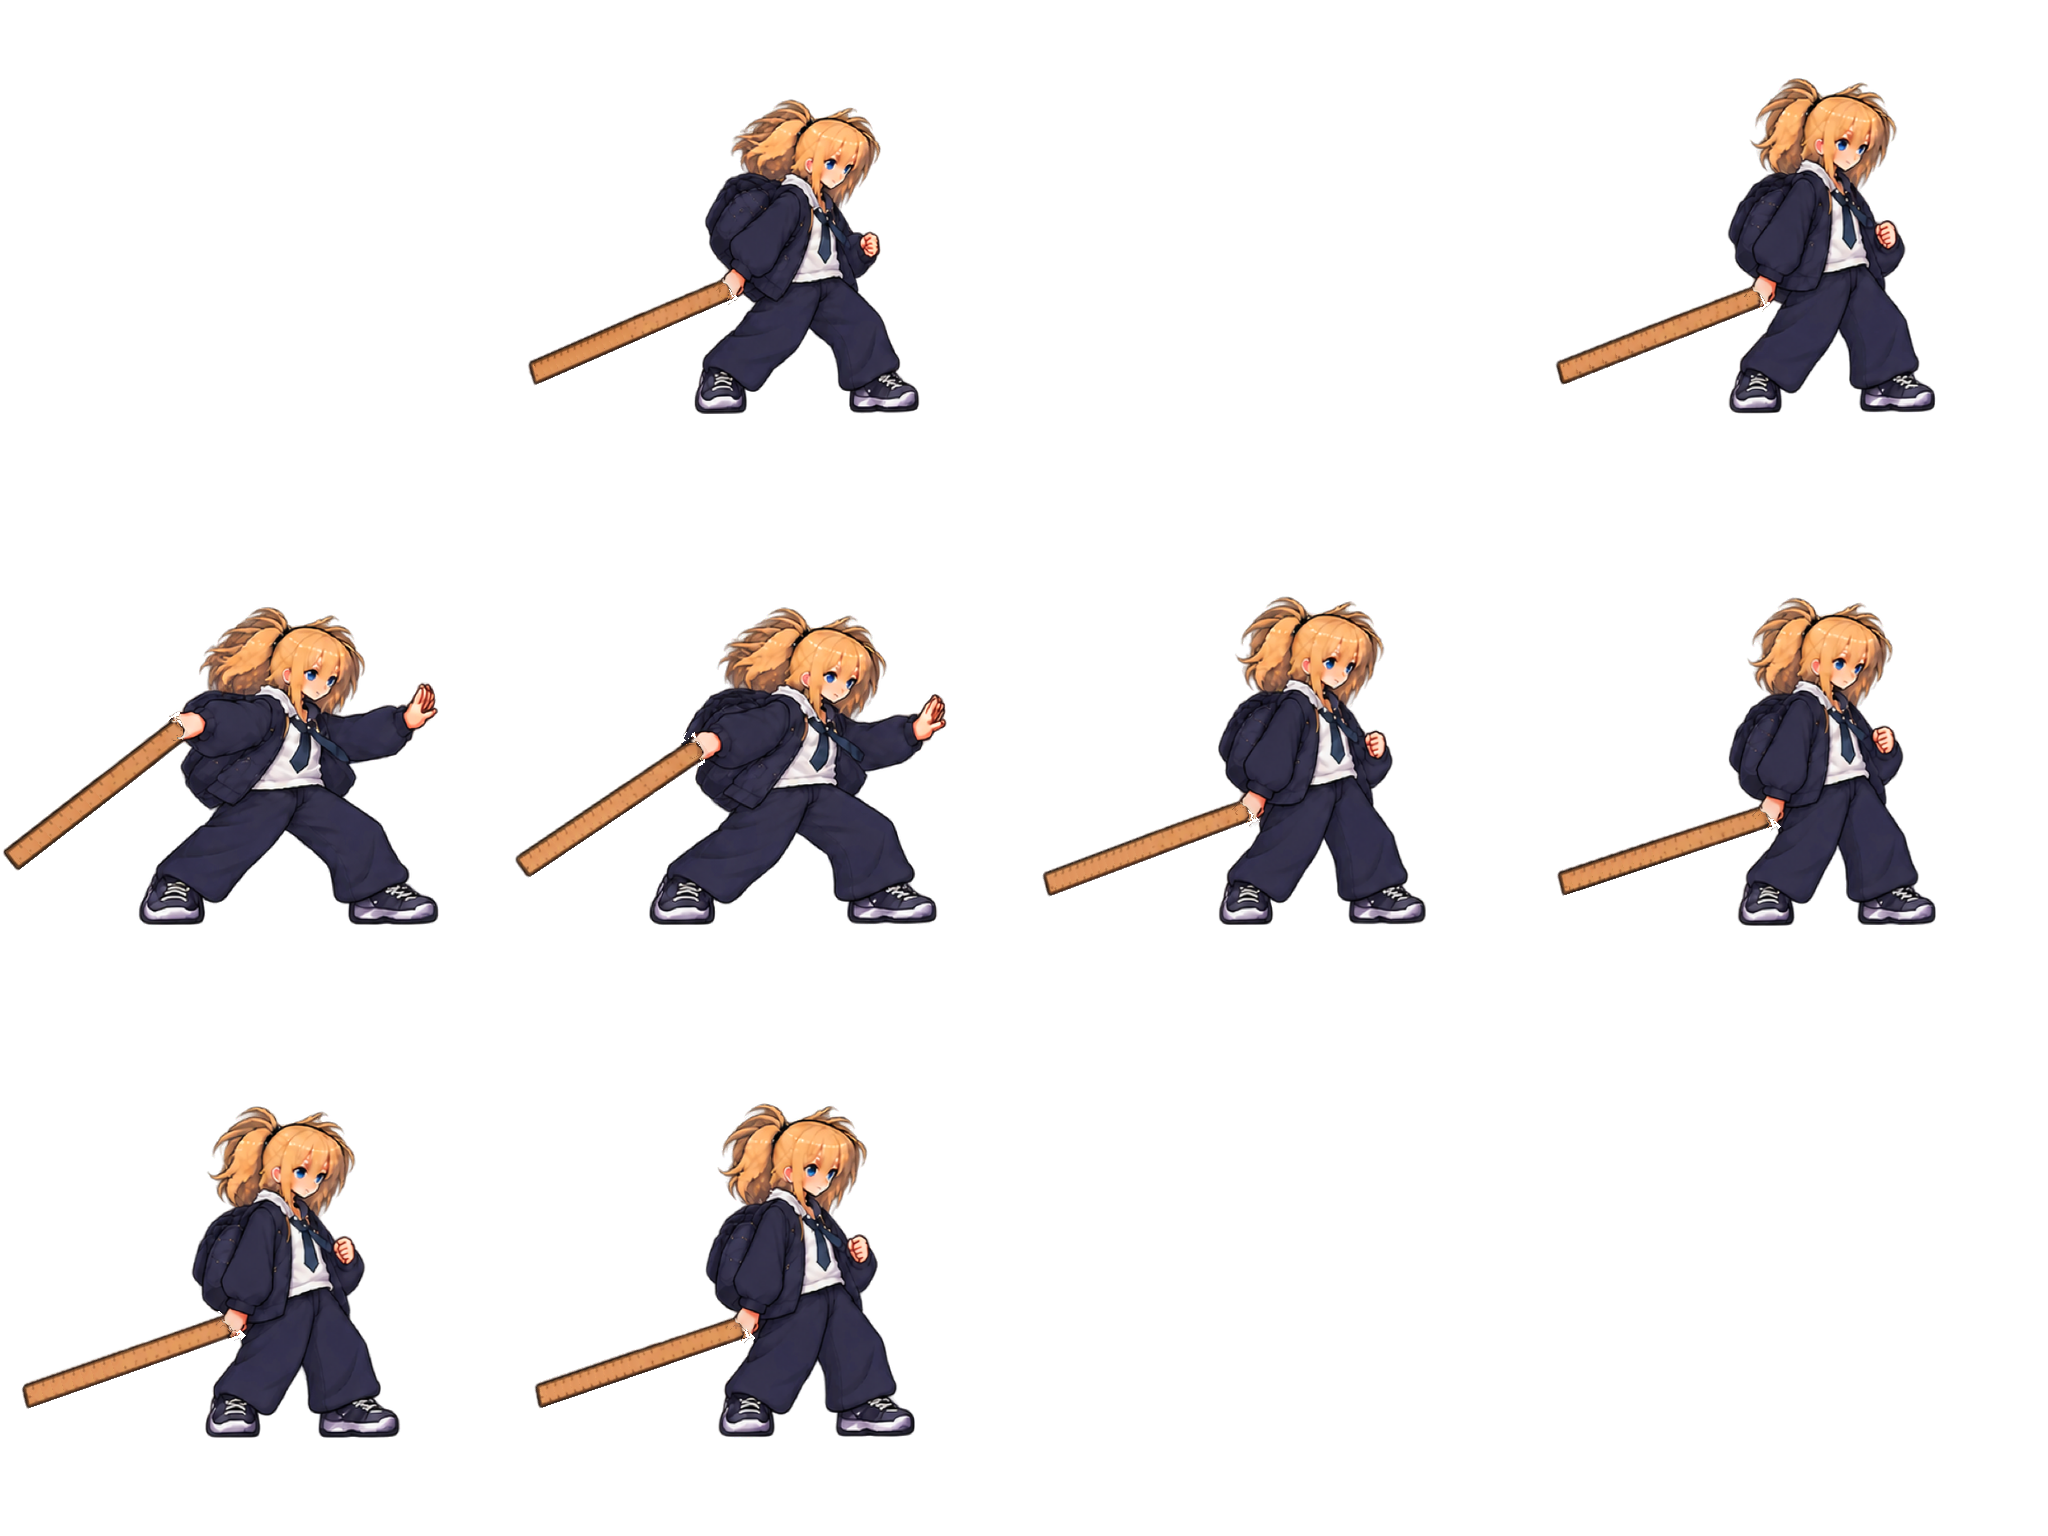
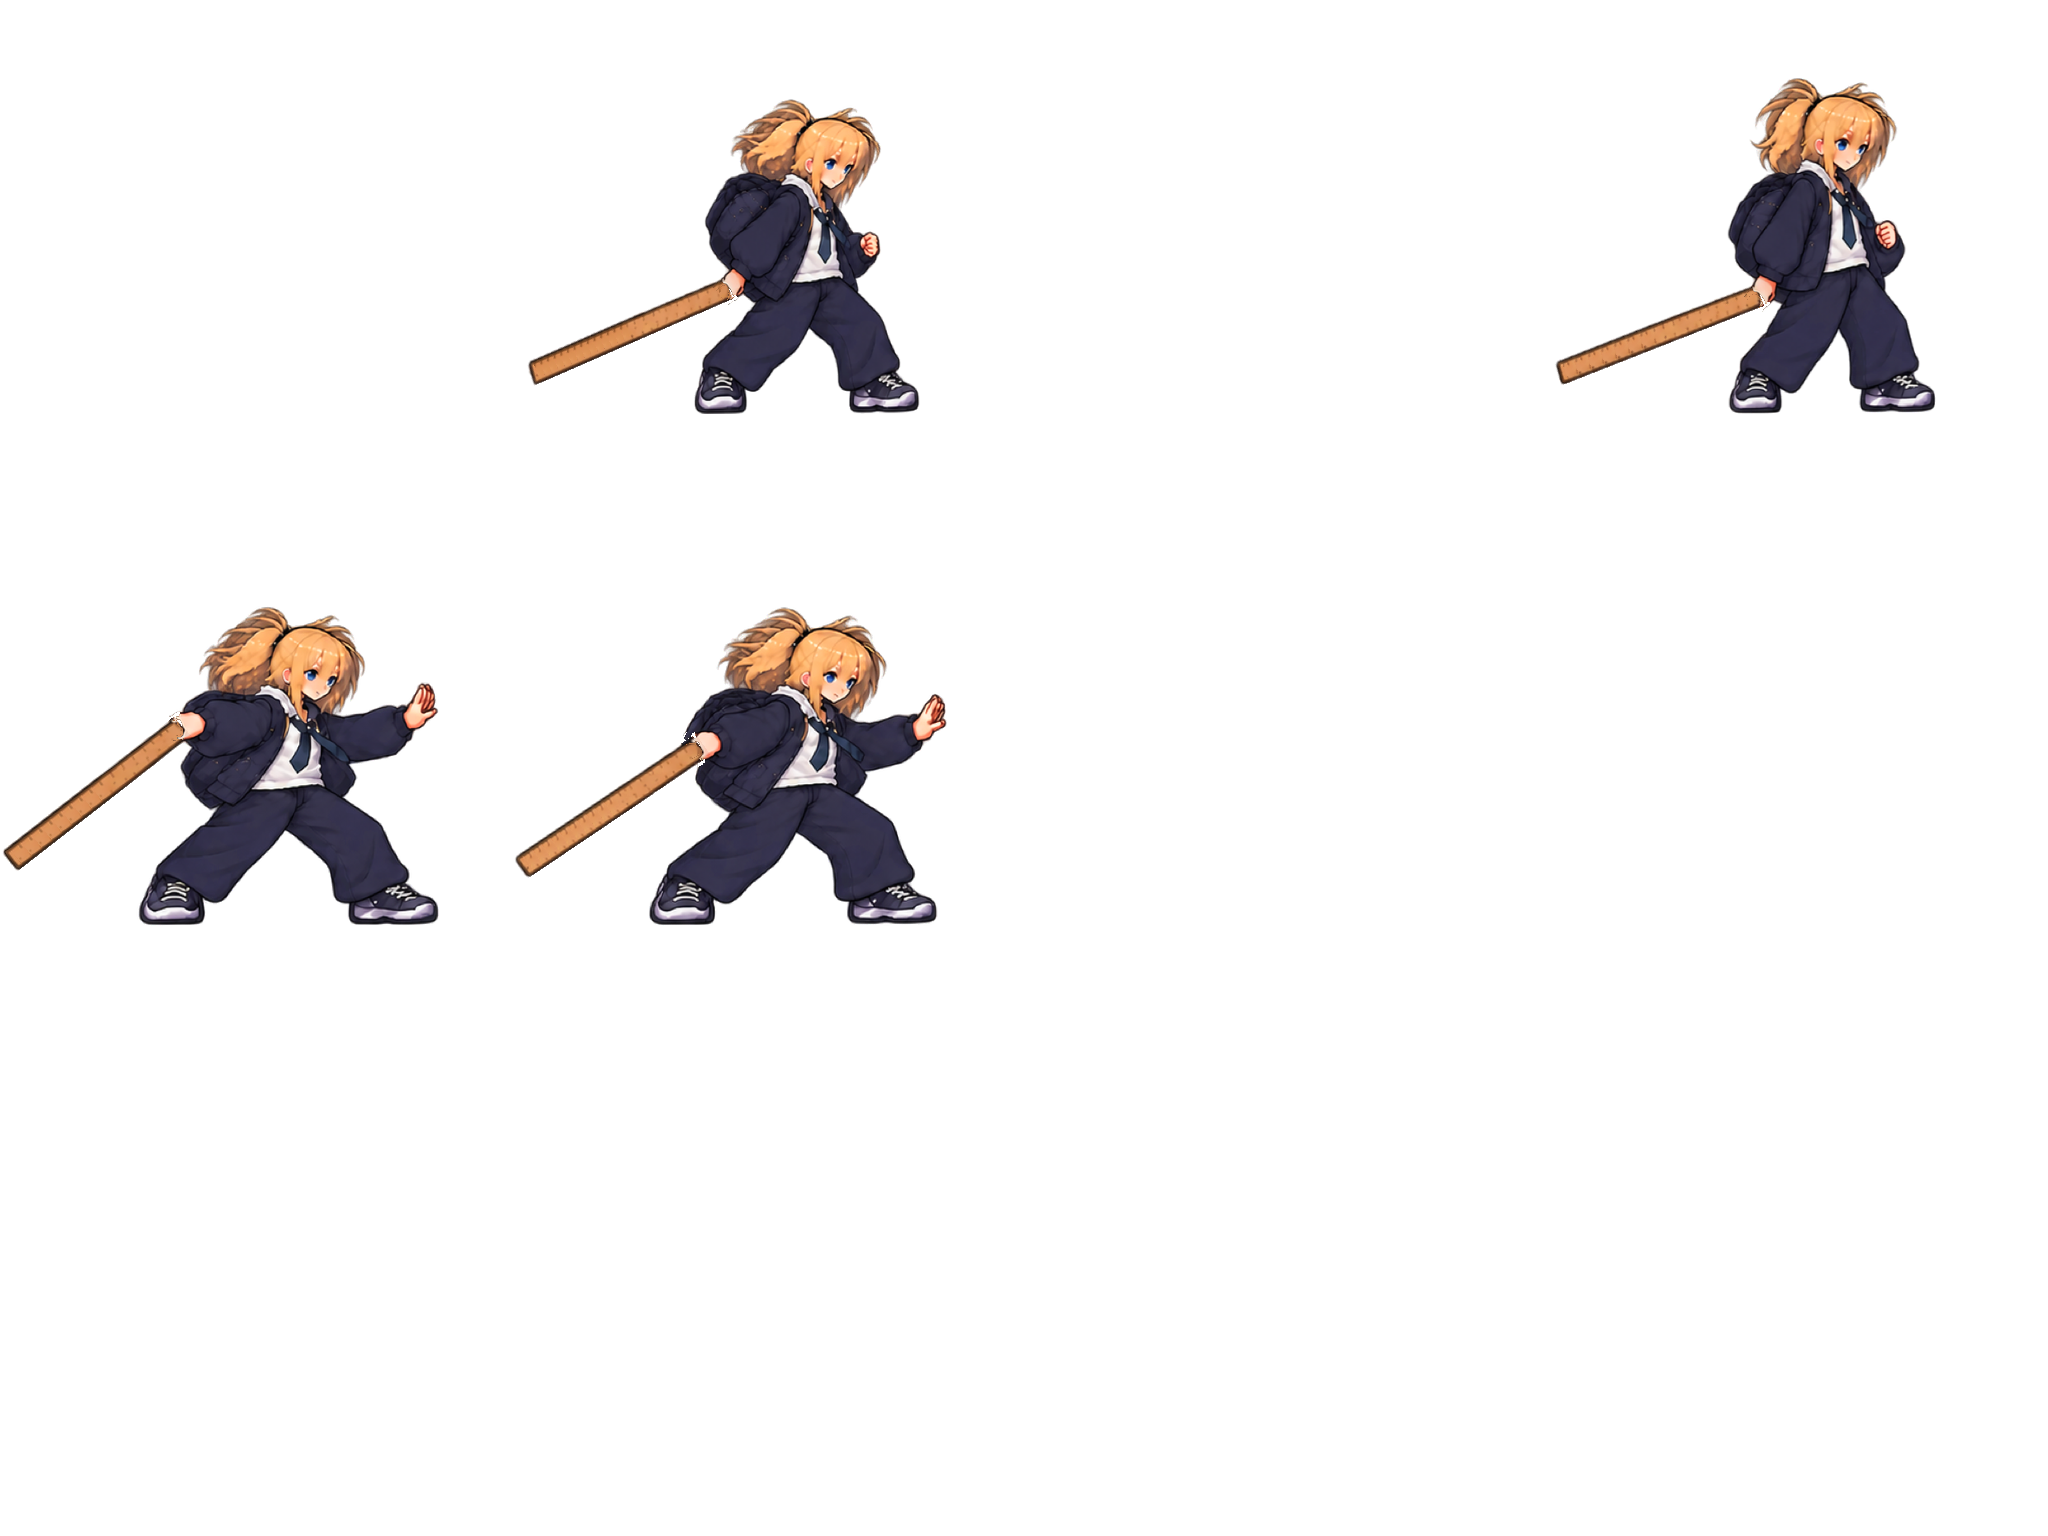
fix: usar el reposo real en la parte final de la frenada de Luz y suavizar el brazo de la frenada
La parte de pie de la frenada (cuadros 6-9) traia el pelo mas ancho y oscuro que el reposo. Ahora la frenada son solo los cuadros 4-5 (el 5 dura el doble) y el resto del estado SKID reproduce la animacion idle.

diff --git a/tools/process_luz_run_turn_skid.py b/tools/process_luz_run_turn_skid.py
@@ -104,19 +104,20 @@ SHEETS = {
         "raw_rows": 3,
         "scale": TURN_SKID_SCALE,
         # Turn: slot 0 (standing, one-hand trailing grip), slot 2 (low pivot, no ball
-        # crouch), slot 3 (standing, trailing grip). Skid: slots 4-9, ending with a
-        # small rock-back (8, 7, 8) so the stop settles with a sway. Slots 10-11 are
-        # unused (Codex filled them anyway).
-        "clips": {"turn": [1, 3], "skid": [4, 5, 6, 7, 8, 7, 8, 9]},
+        # crouch), slot 3 (standing, trailing grip). Skid: only the braking slots 4-5
+        # (5 held twice, so the arm pulls in softly); the hold part is the real idle
+        # because Codex drew the standing slots 6-9 with puffier, darker hair. Slots
+        # 2 and 6-11 are unused.
+        "clips": {"turn": [1, 3], "skid": [4, 5, 5]},
         # Codex paints the hair 4-7% darker than the idle in the sway slots (and 8-10%
         # in the run sheet); lift it to the idle mean so the clips do not pop.
-        "hair_match": [1, 3, 4, 5, 6, 7, 8, 9],
+        "hair_match": [1, 3, 4, 5],
         "body_anchor": True,
         # Codex draws the standing slots with the same head but wider clothes and legs
         # than the idle (lower-body width +17% at the same height), so the stop looked
         # like a size pop into the idle: squeeze their body below the head to the idle
         # width (see squeeze_body). Slots 4-5 are the wide braking stance and stay as drawn.
-        "body_match": [1, 3, 6, 7, 8, 9],
+        "body_match": [1, 3],
     },
 }
 

diff --git a/odd/tasks/luz-final.md b/odd/tasks/luz-final.md
@@ -68,6 +68,7 @@ Budget: Luz complete between this week and next, sharing time and Claude/Codex t
 - [ ] P6 (A) Ground dash like the Penitent (M4: 4-frame startup, ~400 px/s, 0.33 s, low slide, afterimages in Luz colors); keep air dash coherent.
 - [x] P7 (B) Run v3 and long ruler. Done 2026-10-07: route delegated direct (writer trigger: processor + new module + catalog + VFX). Codex could not draw a consistent long ruler, so `tools/luz_ruler_length.py` lengthens it by script (axis fit, repeats one tick period of the ruler's own body, moves the original end cap); `tools/process_luz_run_turn_skid.py` runs it as the last step of every frame. Target `RULER_TARGET_LENGTH` 215 texels (0.65 x 331.5 = ~31 world px); measured 213.8-215.9 in all 12 run, 7 idle, 2 turn and 8 skid frames. Where the straight extension would leave the 512 cell or sink the tip more than 6 texels under the feet row, the ruler swings about the grip by the smallest angle (up to +16 deg lifting the tip in run/idle/turn/skid; skid slots 4 and 5 swing down 32 and 15 deg because the horizontal ruler does not fit). Turn slot 2 (low pivot) cannot fit (needs ~5 deg more than the 40 deg limit) and is not used: turn = slots 1 and 3. New sheets: run v3b 12 frames (scale 1.0076, bob limited to 14 texels), idle v3 7 frames (slot 3 hair pop dropped), skid slots 4-9 with the sway order 4,5,6,7,8,7,8,9; `hair_match` now lifts the hair of the run and skid slots to the idle luminance (Codex paints it 4-10% darker). Cadence: drawn step (front contact shoe to rear shoe) ~210 texels = 30.4 world px, two steps per 12-frame cycle = 60.8 px, so 150 px/s needs ~29.6 fps; `walk` 13 -> 28 fps (Penitent timing of ~0.58 s per cycle would be ~20.6 fps but then feet slide ~45%). The drawn stance foot barely moves relative to the body in frames 2-4, so some sliding stays; a redraw with a longer stride would fix it. `GroundDust` TAKEOFF now draws two small puffs under the feet plus specks. `tools/preview_luz_clips.py` reads run fps, turn_time and skid times from the project and no longer crops the ruler. Floor clearance fix (parent review, same day): the ruler tip must stay clear of the floor (`FLOOR_CLEARANCE` 28 texels = ~4 world px above the feet row), resolved by swinging the ruler UP about the grip; where the 512 cell makes that impossible the clearance is relaxed in 2 texel steps and reported. Result: idle 21.4-23.6 deg below horizontal, clearance 30-31 texels; run 22.3-32.5 deg, clearance 10-32 (9 of 12 frames below 28, worst 10 texels = 1.4 px, limited by the cell's left edge); turn 20.7-29.2 deg, 11-32; skid 18.5-40.5 deg, 30-49 (slots 4-5 still swing down 32 and 15 deg to fit the cell). Lengths 214.0-218.2. Checks: `--import`, `--check-only`, headless boot, 12 suites (combat_test flaked once while a capture ran in parallel, 92/92 on three reruns), `git diff --check`, contact sheets and gameplay capture reviewed by Claude. iPhone check pending (parent).
 - [x] P7b (A) Fixes after the iPhone build of b1ea9c7. Done 2026-10-07: route delegated direct (writer trigger: processor + player.gd + tests + capture). (1) Run "zapateo": run back to the accepted v2 art (`luz_run_raw_v2.png`, 8 frames, scale 0.8724, `bob_fix`, long ruler 215, floor clearance); `walk` 28 -> 12.8 fps (planted foot 11.7 world px per frame, 93.6 px per 8-frame cycle -> 150/93.6*8 = 12.8 fps); v3b raws untouched on disk. (2) Hair "thicker, overlapped frames": cause is the v3b run art itself (fan-shaped, smeared ponytail mass, hair area +8% vs v2, silhouette changes every frame, shown at 28 fps), not the pipeline: import settings are identical on all sheets (no mipmaps, same filter), `hair_match` gain was ~1.0 and `bob_fix` stretch <= 7%, alpha share of the head region is equal (5.8% v3b, 5.5% v2); v2 hair is crisp like the idle (close-up capture compared); `hair_match` dropped for the run (v2 gain 0.96 only darkened it). (3) Reversal while running: `skid_release_grace` 0.06 s (counts toward `skid_brake_time`: the run keeps speed, so a stick crossing neutral or a re-press never flashes a skid; slide 15 px); SKID keeps its facing and an opposite input waits for the brake to finish and then pivots (TURN) instead of cutting the skid; same-direction input still cancels at once; reversal while running pivots straight away (unchanged). `tests/locomotion_test.gd` 40 -> 58 checks (reversal while running, through neutral, re-press, during skid, released inside the brake). (4) Skid end "shrink": heights matched already (skid 329-335 vs idle 327-332 texels) but the skid and turn art draws wider clothes and legs at the same head size (lower-body width 202/206/230 vs 173/178/197 per band, area 50.6k vs 43.5k, +16%): `squeeze_body` narrows slots 1,3,6-9 below the head to the idle lower width (factors 0.81-0.88, eased in between 12% and 30% of the height, height and feet row untouched) and `anchor_body` centres every non-idle body (ruler excluded) on the idle body centroid (skid 281.7 -> 287.4 vs idle 285.7-288.7). Result: skid last frame vs idle: area 44.6k vs 43.5k (+2.5%, ~1.3% linear), height 335 vs 331, cx 287.4 vs 287.5. Checks: `--import`, `--check-only`, headless boot, 12 suites, `git diff --check`, before/after gameplay captures reviewed by Claude. iPhone check pending (parent). Still off: skid slots 4-5 (braking stance) stay wide on purpose; the run frames stay ~89% of the idle height by design (lean); v3b raw art kept for a possible redraw with a longer stride.
+- [x] P7c (A) Skid hair widening and rough arm snap (iPhone). Done 2026-10-08: route delegated direct. Cause: skid slots 6-9 (the standing hold) are nearly the idle pose but Codex drew the hair puffier and darker, so the hair widened and darkened during the stop; the arm-out brake (slots 4-5) snapped to arm-down in one frame. Fix: `skid` clip is now only the brake slots `[4, 5, 5]` (slot 5 held twice so the arm pulls in softly) and its duration is `_skid_brake_duration()`; `_update_animation` plays `idle` for the rest of the SKID state (same state timing, slide and tests); `hair_match`/`body_match` trimmed to the used slots. Evidence: capture track shows skid 0,0,1,1,2 then idle from frame 221 with the idle hair in the close-ups; `--import`, `--check-only`, headless boot, 12 suites pass (locomotion 58/58), `git diff --check` clean. The arm/ruler pose still changes between the last brake frame and idle frame 0 (no intermediate art). iPhone check pending (parent).
 - [ ] P8 (B) Ground combo x3 and crouch attack with the sword grip (two or three Codex requests; absorbs C2 ground part).
 - [ ] P9 (B) Jump/fall/land and a distinct double-jump animation with the sword grip (one Codex request).
 - [ ] P10 (B, if time) Air horizontal and up attacks, dash and wall clips with the sword grip.
